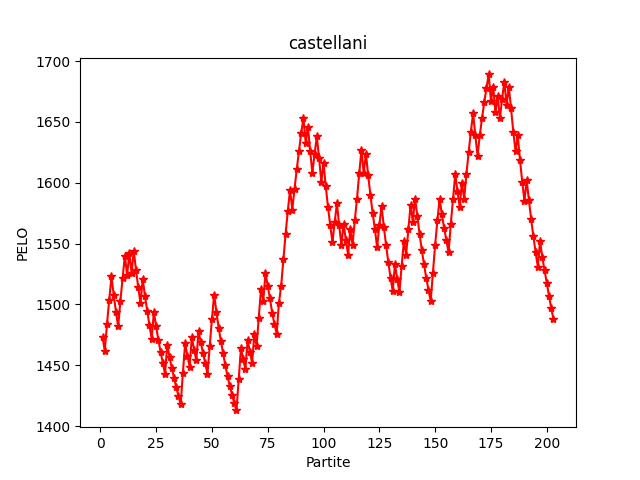
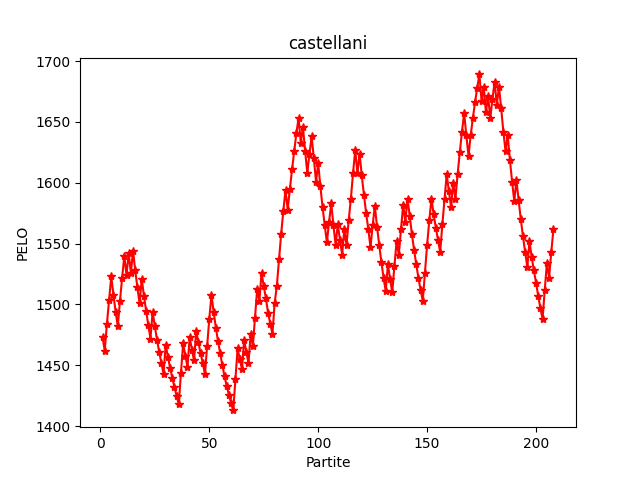
Add files via upload

diff --git a/index.htm b/index.htm
@@ -26,15 +26,6 @@
     </tr>
     <tr>
       <th>1</th>
-      <td><a href='zontini.png'>zontini</a></td>
-      <td>1657</td>
-      <td>191</td>
-      <td>104</td>
-      <td>1910</td>
-      <td>1817</td>
-    </tr>
-    <tr>
-      <th>2</th>
       <td><a href='devigili.png'>devigili</a></td>
       <td>1646</td>
       <td>11</td>
@@ -43,7 +34,7 @@
       <td>78</td>
     </tr>
     <tr>
-      <th>3</th>
+      <th>2</th>
       <td><a href='turino.png'>turino</a></td>
       <td>1627</td>
       <td>10</td>
@@ -52,7 +43,7 @@
       <td>79</td>
     </tr>
     <tr>
-      <th>4</th>
+      <th>3</th>
       <td><a href='malvagi.png'>malvagi</a></td>
       <td>1611</td>
       <td>60</td>
@@ -61,22 +52,31 @@
       <td>574</td>
     </tr>
     <tr>
+      <th>4</th>
+      <td><a href='zontini.png'>zontini</a></td>
+      <td>1588</td>
+      <td>196</td>
+      <td>105</td>
+      <td>1956</td>
+      <td>1871</td>
+    </tr>
+    <tr>
       <th>5</th>
+      <td><a href='castellani.png'>castellani</a></td>
+      <td>1562</td>
+      <td>369</td>
+      <td>158</td>
+      <td>3396</td>
+      <td>3693</td>
+    </tr>
+    <tr>
+      <th>6</th>
       <td><a href='romano.png'>romano</a></td>
       <td>1491</td>
       <td>4</td>
       <td>1</td>
       <td>38</td>
       <td>44</td>
-    </tr>
-    <tr>
-      <th>6</th>
-      <td><a href='castellani.png'>castellani</a></td>
-      <td>1488</td>
-      <td>364</td>
-      <td>154</td>
-      <td>3342</td>
-      <td>3647</td>
     </tr>
     <tr>
       <th>7</th>
